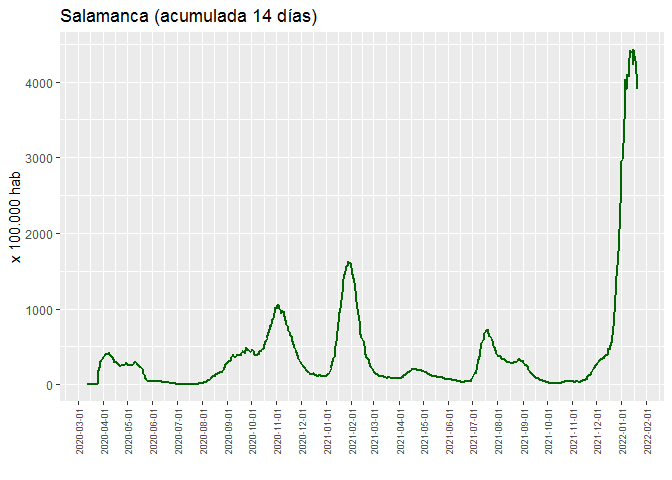
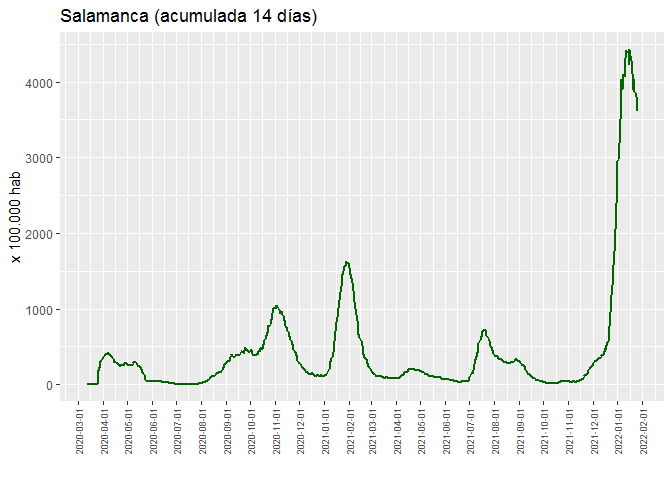
update

diff --git a/README.md b/README.md
@@ -1,7 +1,7 @@
 Covid-19: Incidencia acumulada
 ================
 JMSS \[Usal - CIC\]
-(updated: 21 ene 2022)
+(updated: 25 ene 2022)
 
 ### Incidencia acumulada del Covid19 por cada 100.000 habitantes
 
